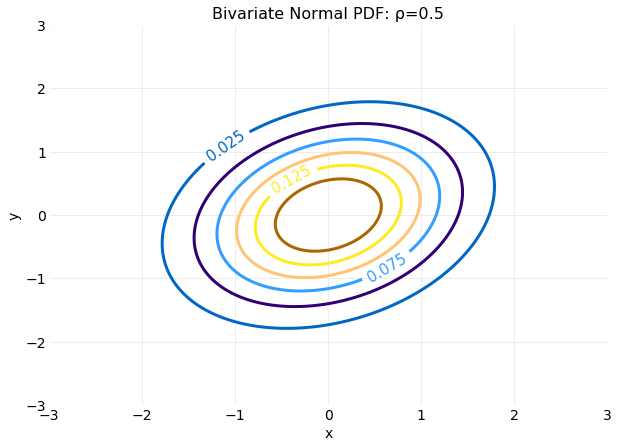
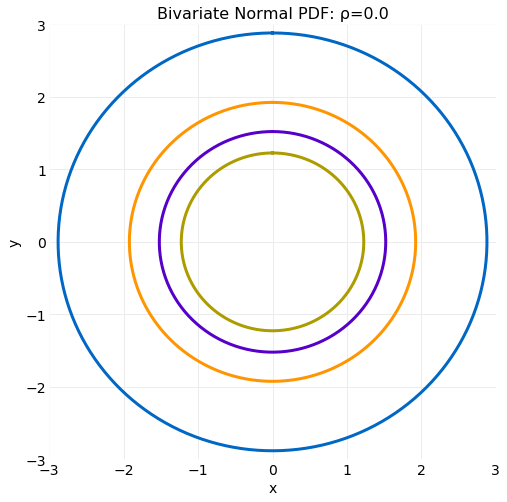
debugging parameterized contour plots

diff --git a/hydrogen_notebooks/distributions/bivariate_normal_distribution.py b/hydrogen_notebooks/distributions/bivariate_normal_distribution.py
@@ -40,13 +40,6 @@ def conditional_pdf_generator(y, μ1, μ2, σ1, σ2, ρ):
     scale = numpy.sqrt((1.0 - ρ**2) * σ1**2)
     return numpy.random.normal(loc, scale)
 
-def pdf_contour(μ1, μ2, σ1, σ2, ρ):
-    def f(θ, c):
-        y1 = c * σ1 * (numpy.sin(θ) + numpy.cos(θ) * ρ / numpy.sqrt(1.0 - ρ**2)) + μ1
-        y1 = c * σ2 * numpy.cos(θ) / numpy.sqrt(1.0 - ρ**2) + μ2
-        return (y1, y2)
-    return f
-
 def pdf_transform_y1_constant(μ1, μ2, σ1, σ2, ρ, c1):
     def f(y2):
         x1 = (c1 - μ1) / σ1
@@ -62,7 +55,34 @@ def pdf_transform_y2_constant(μ1, μ2, σ1, σ2, ρ, c2):
     return f
 
 def pdf_contour_constant(μ1, μ2, σ1, σ2, ρ, v):
-    return numpy.sqrt(2.0 * (1.0 - ρ**2) * numpy.log(numpy.pi * σ1 * σ2 * v * numpy.sqrt(1.0 - ρ**2)))
+    return numpy.sqrt(-2.0 * (1.0 - ρ**2) * numpy.log(numpy.pi * σ1 * σ2 * v * numpy.sqrt(1.0 - ρ**2)))
+
+def pdf_parametric_contour(μ1, μ2, σ1, σ2, ρ):
+    def f(θ, c):
+        y1 = c * σ1 * (numpy.sin(θ) + numpy.cos(θ) * ρ / numpy.sqrt(1.0 - ρ**2)) + μ1
+        y2 = c * σ2 * numpy.cos(θ) / numpy.sqrt(1.0 - ρ**2) + μ2
+        return (y1, y2)
+    return f
+
+def parametric_contour_plot(μ1, μ2, σ1, σ2, ρ, contour_values, plot_name):
+    npts = 500
+    θ = numpy.linspace(0.0, 2.0 * numpy.pi, npts)
+    c = [pdf_contour_constant(μ1, μ2, σ1, σ2, ρ, v) for v in contour_values]
+    f = pdf_parametric_contour(μ1, μ2, σ1, σ2, ρ)
+
+    figure, axis = pyplot.subplots(figsize=(8, 8))
+    axis.set_xlabel("x")
+    axis.set_ylabel("y")
+    axis.set_xlim([-3.0, 3.0])
+    axis.set_ylim([-3.0, 3.0])
+    axis.set_title(f"Bivariate Normal PDF: ρ={ρ}")
+
+    for n in range(len(c)):
+        y1, y2 = f(θ, c[n])
+        axis.plot(y1, y2, label=f"= {format(contour_values[n], '2.2f')}")
+
+    axis.legend()
+    config.save_post_asset(figure, "bivariate_normal_distribution", plot_name)
 
 # %%
 
@@ -87,17 +107,17 @@ for i in numpy.arange(npts):
 
 # %%
 
-figure, axis = pyplot.subplots(figsize=(10, 7))
+figure, axis = pyplot.subplots(figsize=(8, 8))
 axis.set_xlabel("x")
 axis.set_ylabel("y")
 axis.set_title(f"Bivariate Normal PDF: ρ={ρ}")
-contour = axis.contour(x1_grid, y1_grid, f_x1_x2, [0.0, 0.025, 0.05, 0.075, 0.1, 0.125, 0.15], cmap=config.contour_color_map)
+contour = axis.contour(x1_grid, y1_grid, f_x1_x2, [0.005, 0.025, 0.05, 0.075, 0.1, 0.125, 0.15], cmap=config.contour_color_map)
 axis.clabel(contour, contour.levels[::2], fmt="%.3f", inline=True, fontsize=15)
 config.save_post_asset(figure, "bivariate_normal_distribution", "bivariate_pdf_contours")
 
 # %%
 
-figure, axis = pyplot.subplots(figsize=(10, 7))
+figure, axis = pyplot.subplots(figsize=(10, 10))
 axis.set_title(f"Bivariate Normal PDF: ρ={ρ}")
 axis.set_yticklabels([])
 axis.set_xticklabels([])
@@ -117,10 +137,18 @@ config.save_post_asset(figure, "bivariate_normal_distribution", "bivariate_pdf_s
 σ2 = 1.0
 μ1 = 0.0
 μ2 = 0.0
-npts = 500
 ρ = 0.0
-θ = numpy.linspace(0.0, 2.0 * numpy.pi, npts)
+contour_values = [0.005, 0.05, 0.1, 0.15]
 
-c = [0.0, 0.025, 0.05, 0.075, 0.1, 0.125, 0.15]
-for n in range(len(c)):
-    f = bivariate_normal_pdf_contour(μ1, μ2, σ1, σ2, ρ)
+parametric_contour_plot(μ1, μ2, σ1, σ2, ρ, contour_values, 'bivariate_pdf_parameterized_contour_correlation_0.0')
+
+# %%
+
+σ1 = 1.0
+σ2 = 1.0
+μ1 = 0.0
+μ2 = 0.0
+ρ = 0.9
+contour_values = [0.005, 0.05, 0.1, 0.15]
+
+parametric_contour_plot(μ1, μ2, σ1, σ2, ρ, contour_values, 'bivariate_pdf_parameterized_contour_correlation_0.5')
